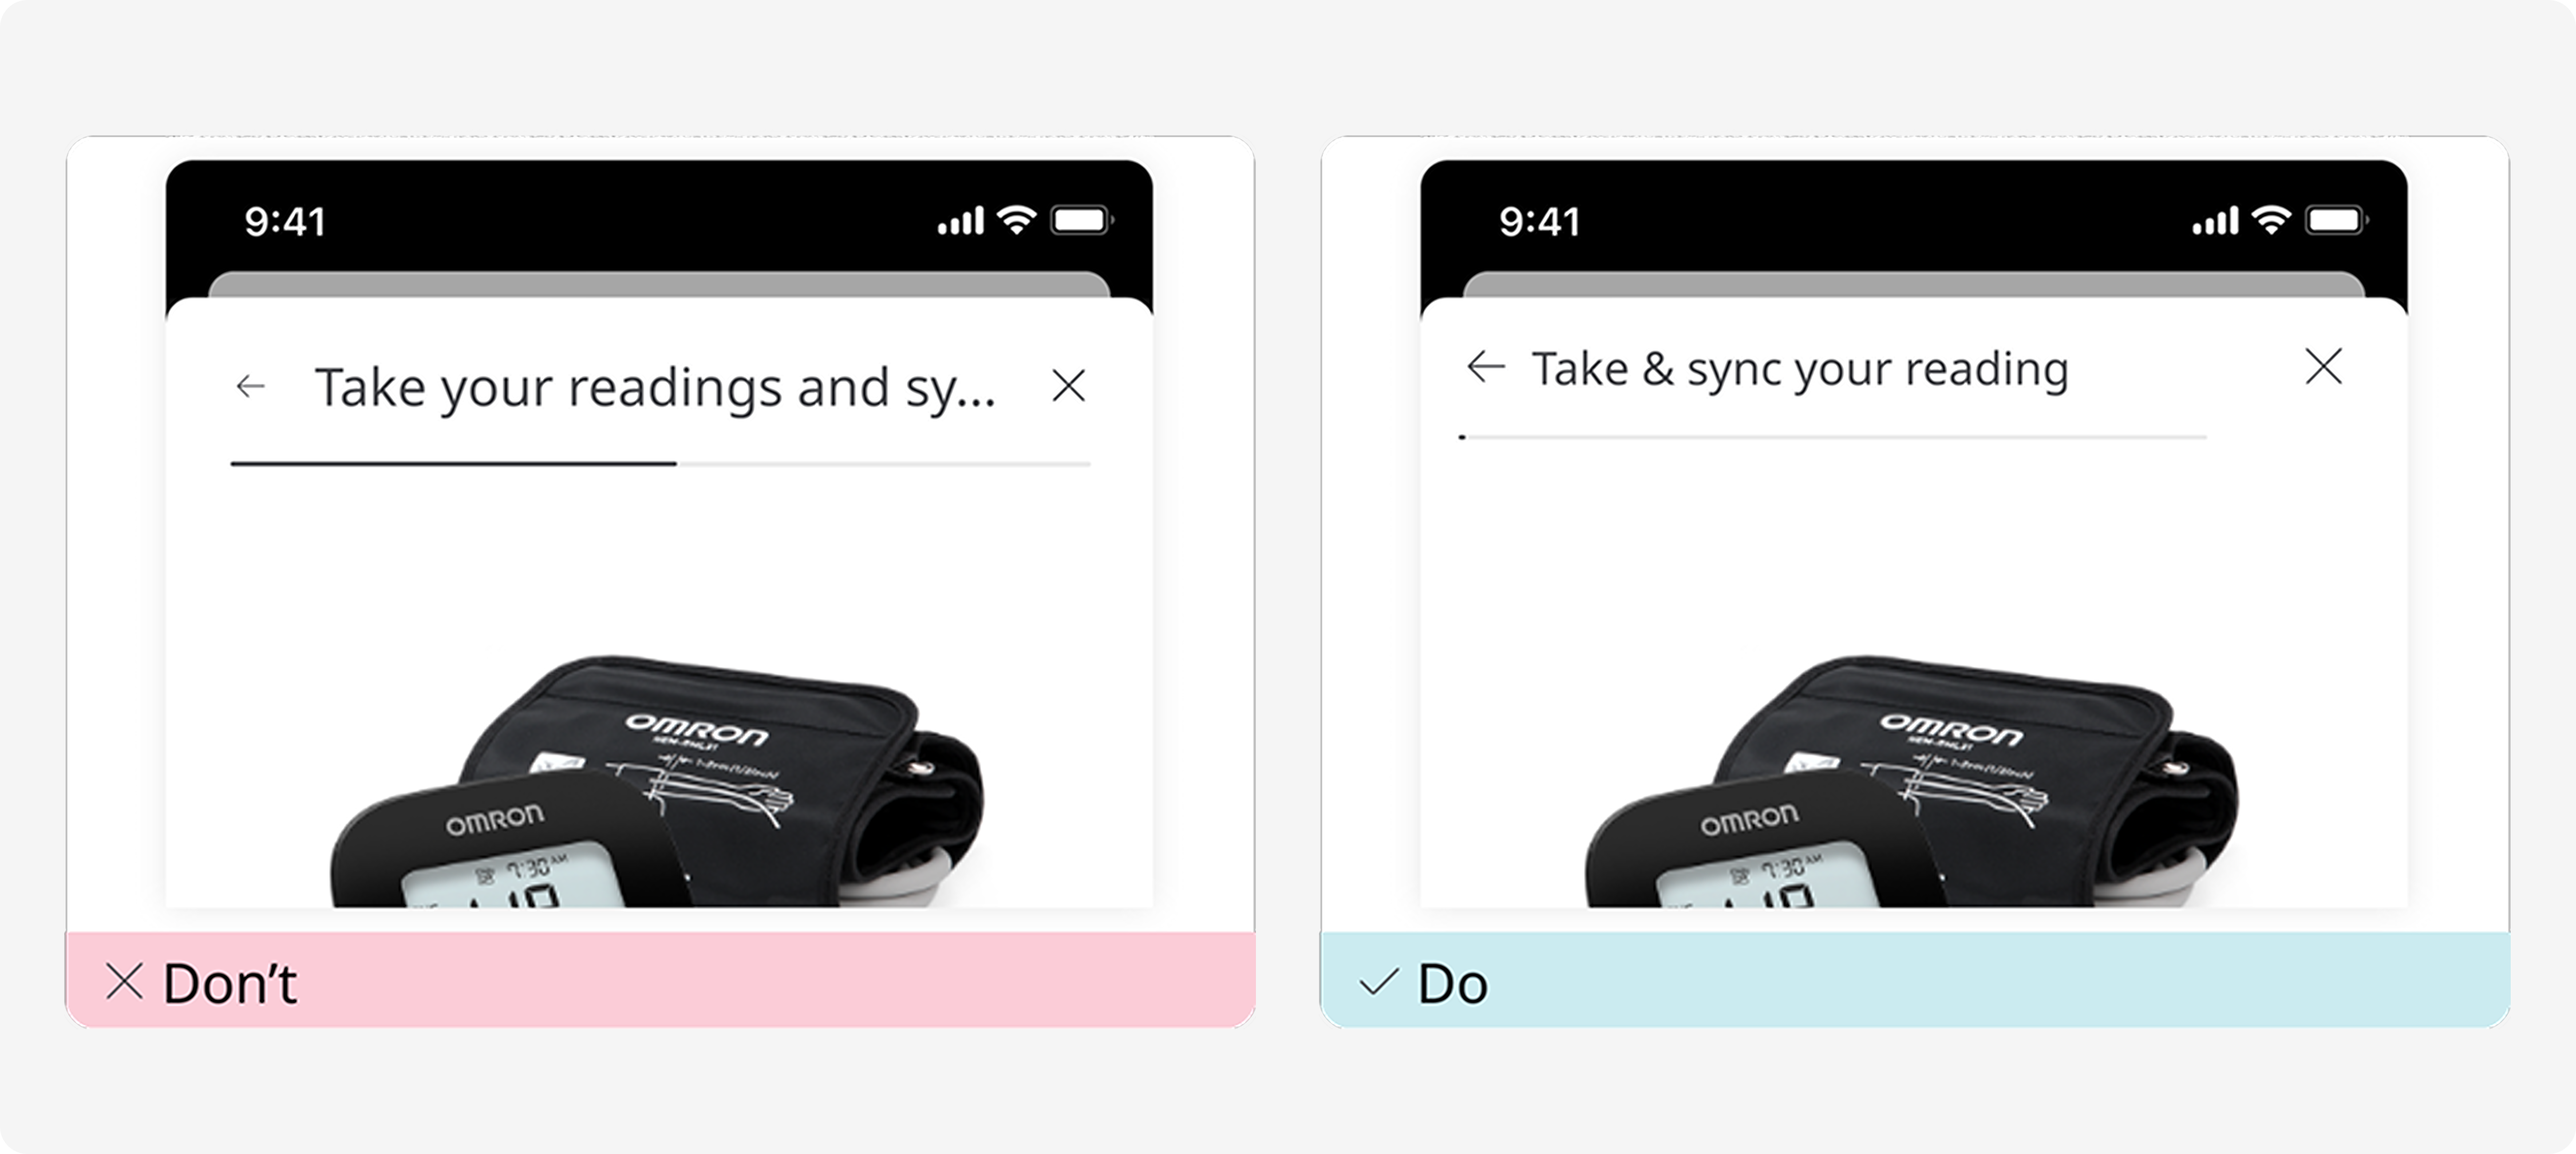
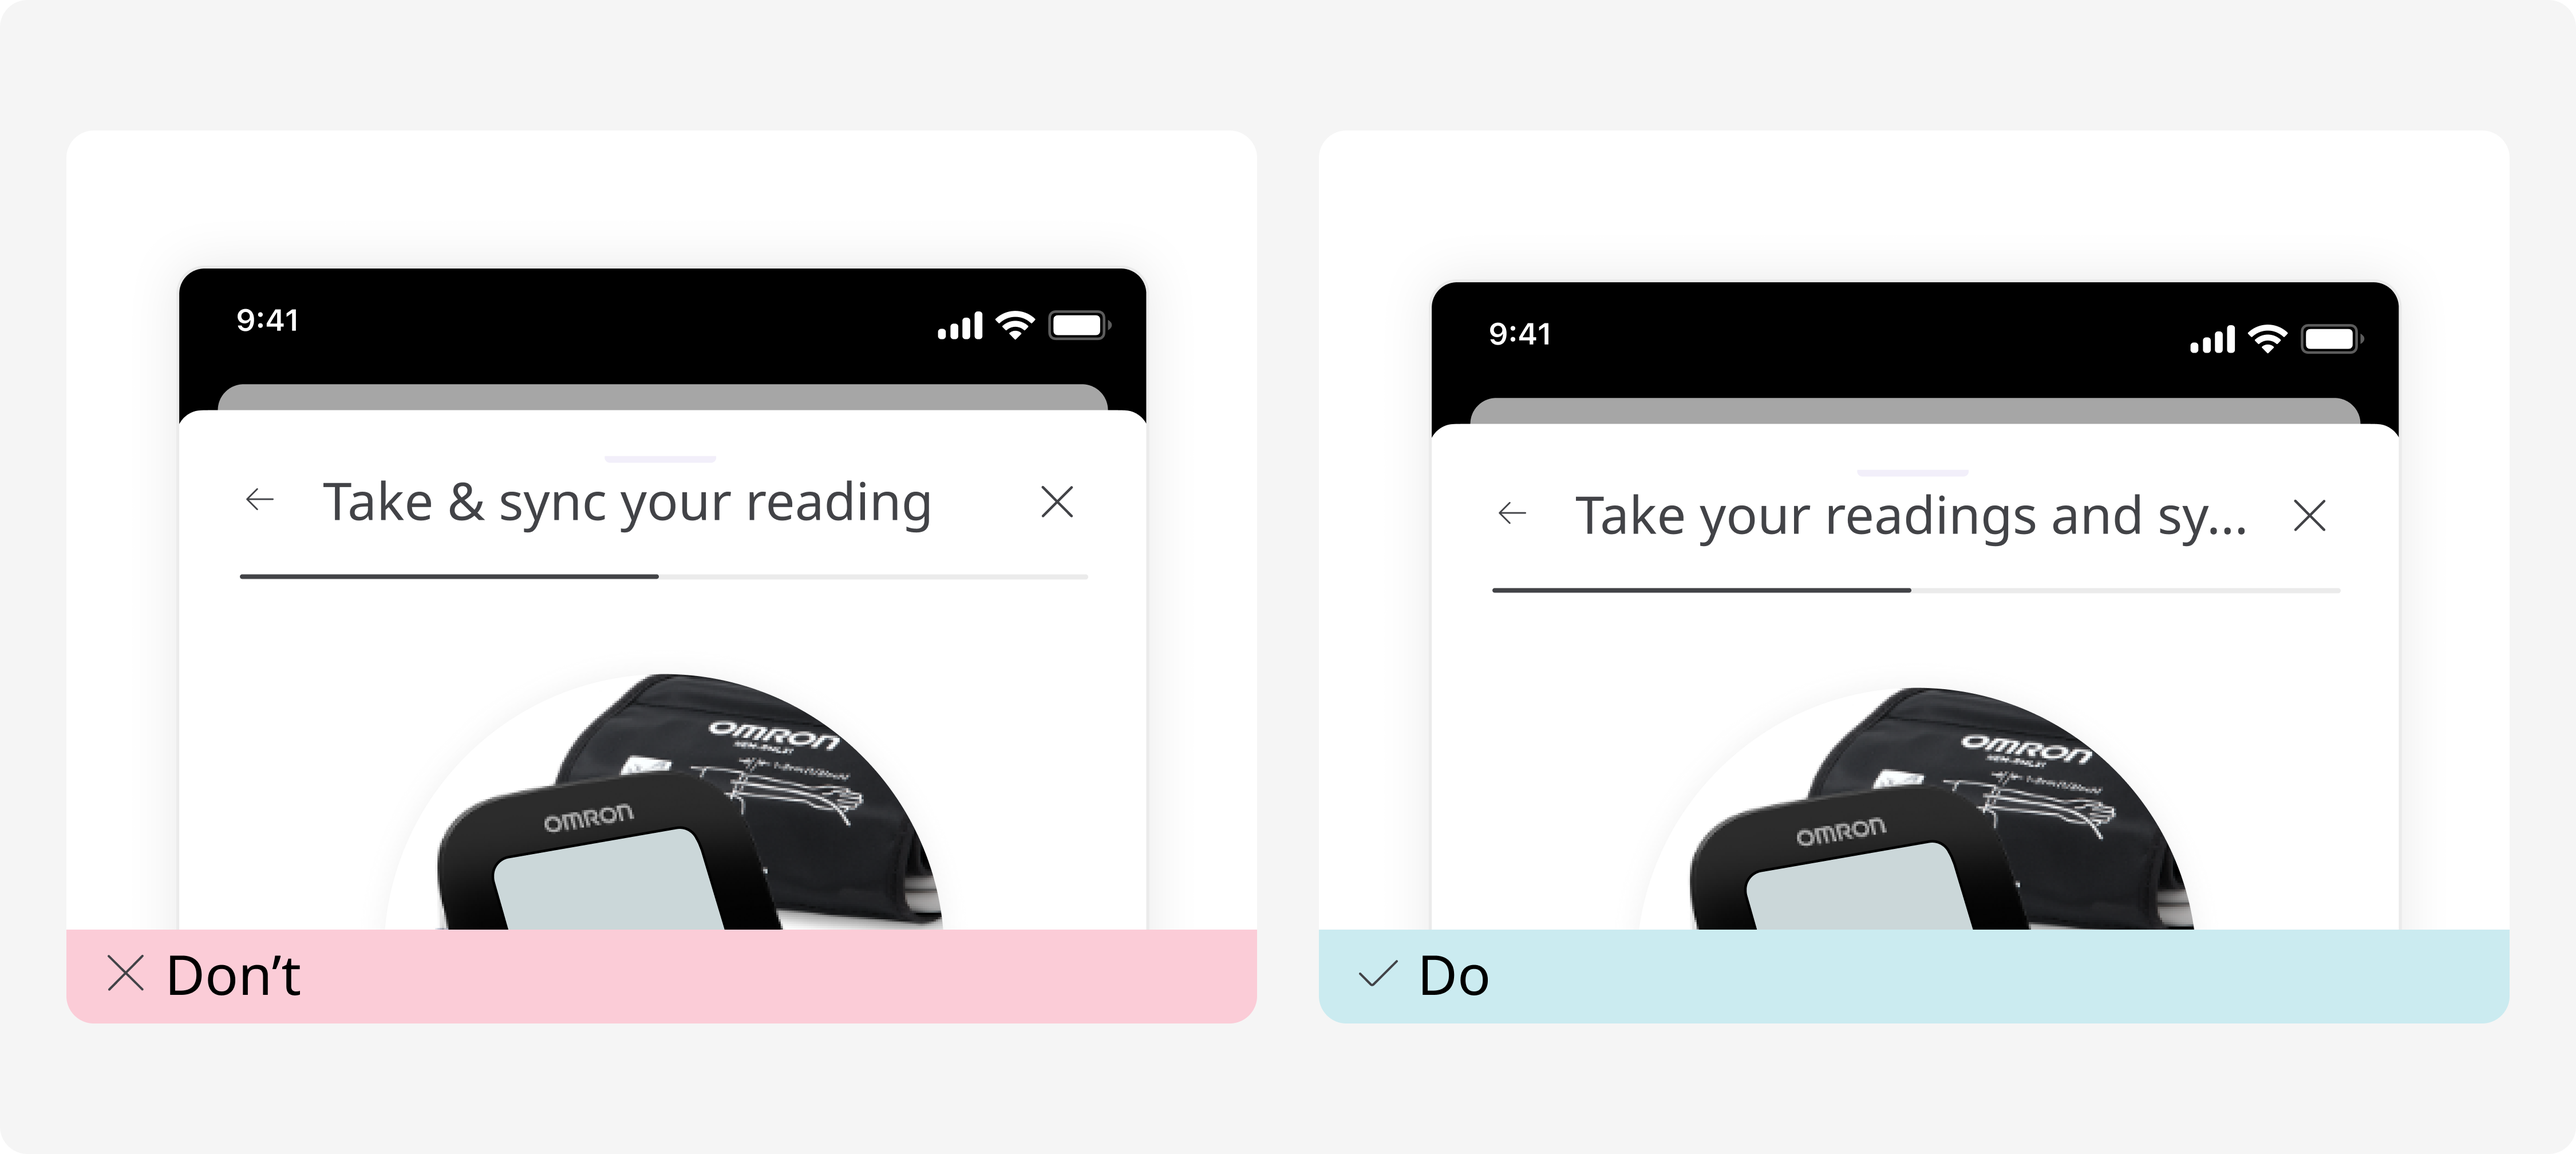
update images

diff --git a/data-collection/builder/creating-app-content/index.md b/data-collection/builder/creating-app-content/index.md
@@ -17,7 +17,7 @@ The Huma Studio CMS is a powerful content management system designed to simplify
 
 <div style={{ backgroundColor: '#EFF9FA', border: 'transparent', padding: '10px', borderRadius: '5px', marginBottom: '10px' }}>
   <strong>Tip: Adding external URLs or media as an article type</strong><br/>
-  <span>If your article type is an external URL, add your external resource by entering the URL in the <span style={{ backgroundColor: '#EBEBEB', padding: '0 5px', borderRadius: '5px' }}>External URL</span> field. If your article type is a media asset, such as an image or video, add your asset by clicking the <span style={{ backgroundColor: '#EBEBEB', padding: '0 5px', borderRadius: '5px' }}>Media</span> button under the Body section.</span>
+  <span>If your article type is an external URL, add your external resource by entering the URL in the <span style={{ backgroundColor: '#CBEBF0', padding: '0 5px', borderRadius: '5px' }}>External URL</span> field. If your article type is a media asset, such as an image or video, add your asset by clicking the <span style={{ backgroundColor: '#CBEBF0', padding: '0 5px', borderRadius: '5px' }}>Media</span> button under the Body section.</span>
 </div>
 
 <br/>

diff --git a/quick-start/design/index.md b/quick-start/design/index.md
@@ -80,7 +80,7 @@ A visual representation, such as a photo, illustration, or diagram, used to clar
 
 import imageguide from '../../assets/Image-design-guide.png'
 
-# <img src={imageguide} alt="Icon description" width="200" height="200"/>
+# <img src={imageguide} alt="Icon description" width="300" height="300"/>
 
 **Purpose**
 
@@ -96,10 +96,10 @@ To help users better understand instructions or information by showing the produ
 
 **Example**
 
-import imageexampledonot from '../../assets/exampleimagedonot.png'
+import imageexampleDo from '../../assets/imageexampleDo.png'
 
 
- <img src={imageexampledonot} alt="Icon description" width="550" height="550"/>
+ <img src={imageexampleDo} alt="Icon description" width="550" height="550"/>
 
 ## Title
 
